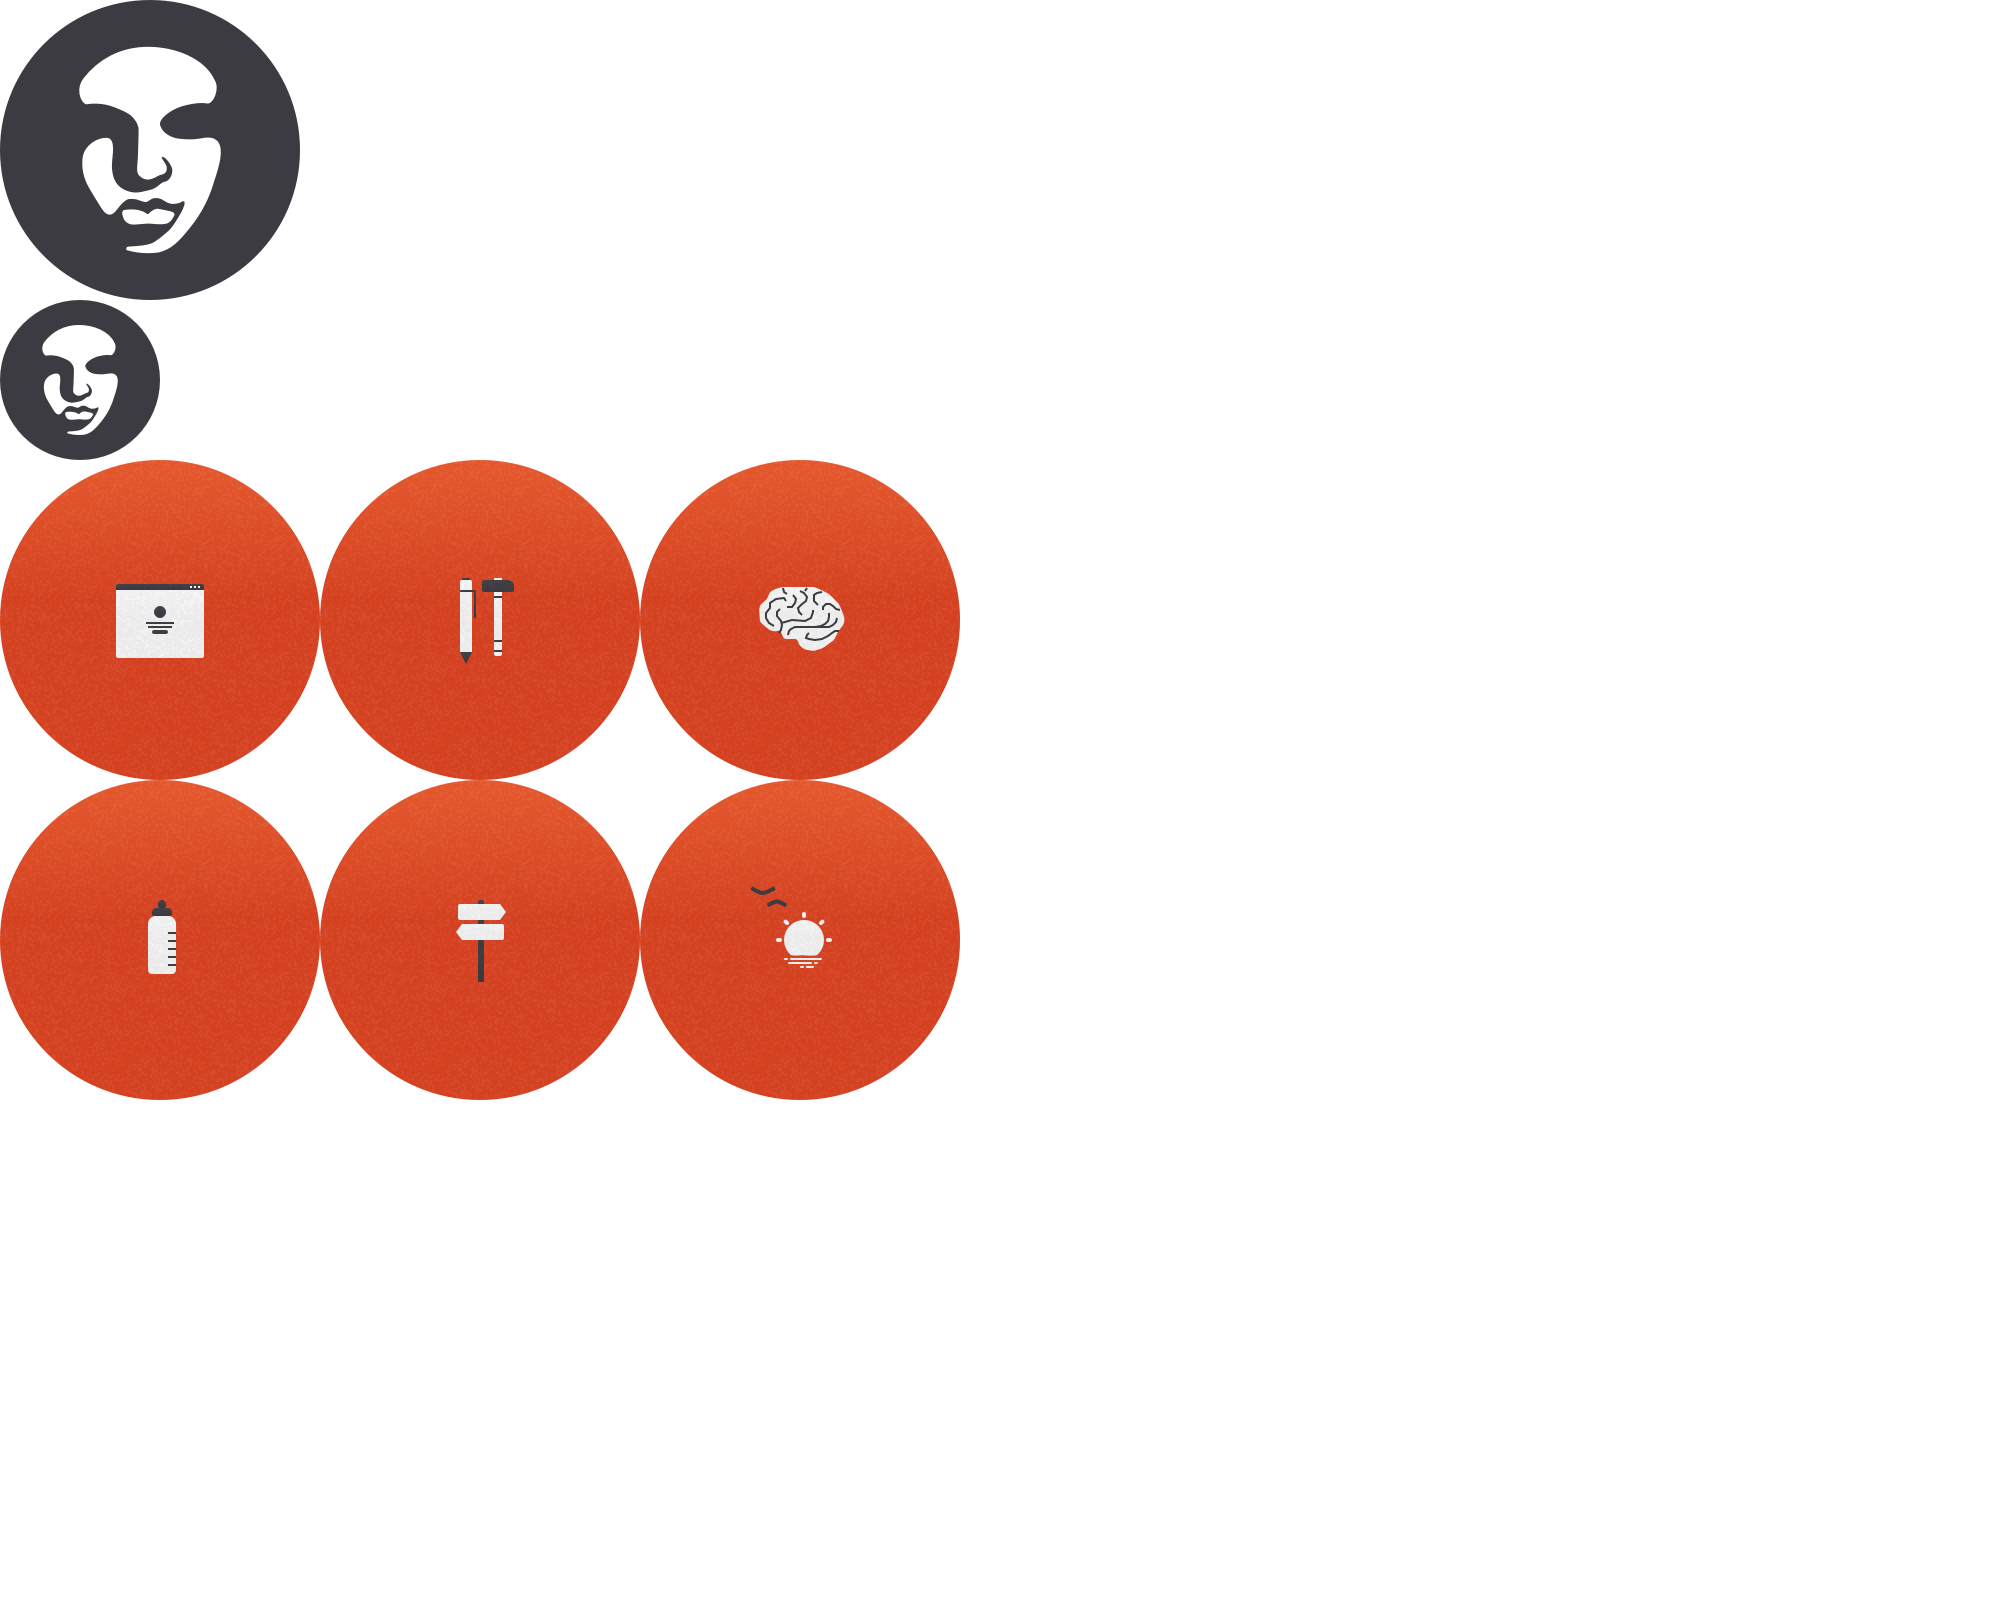
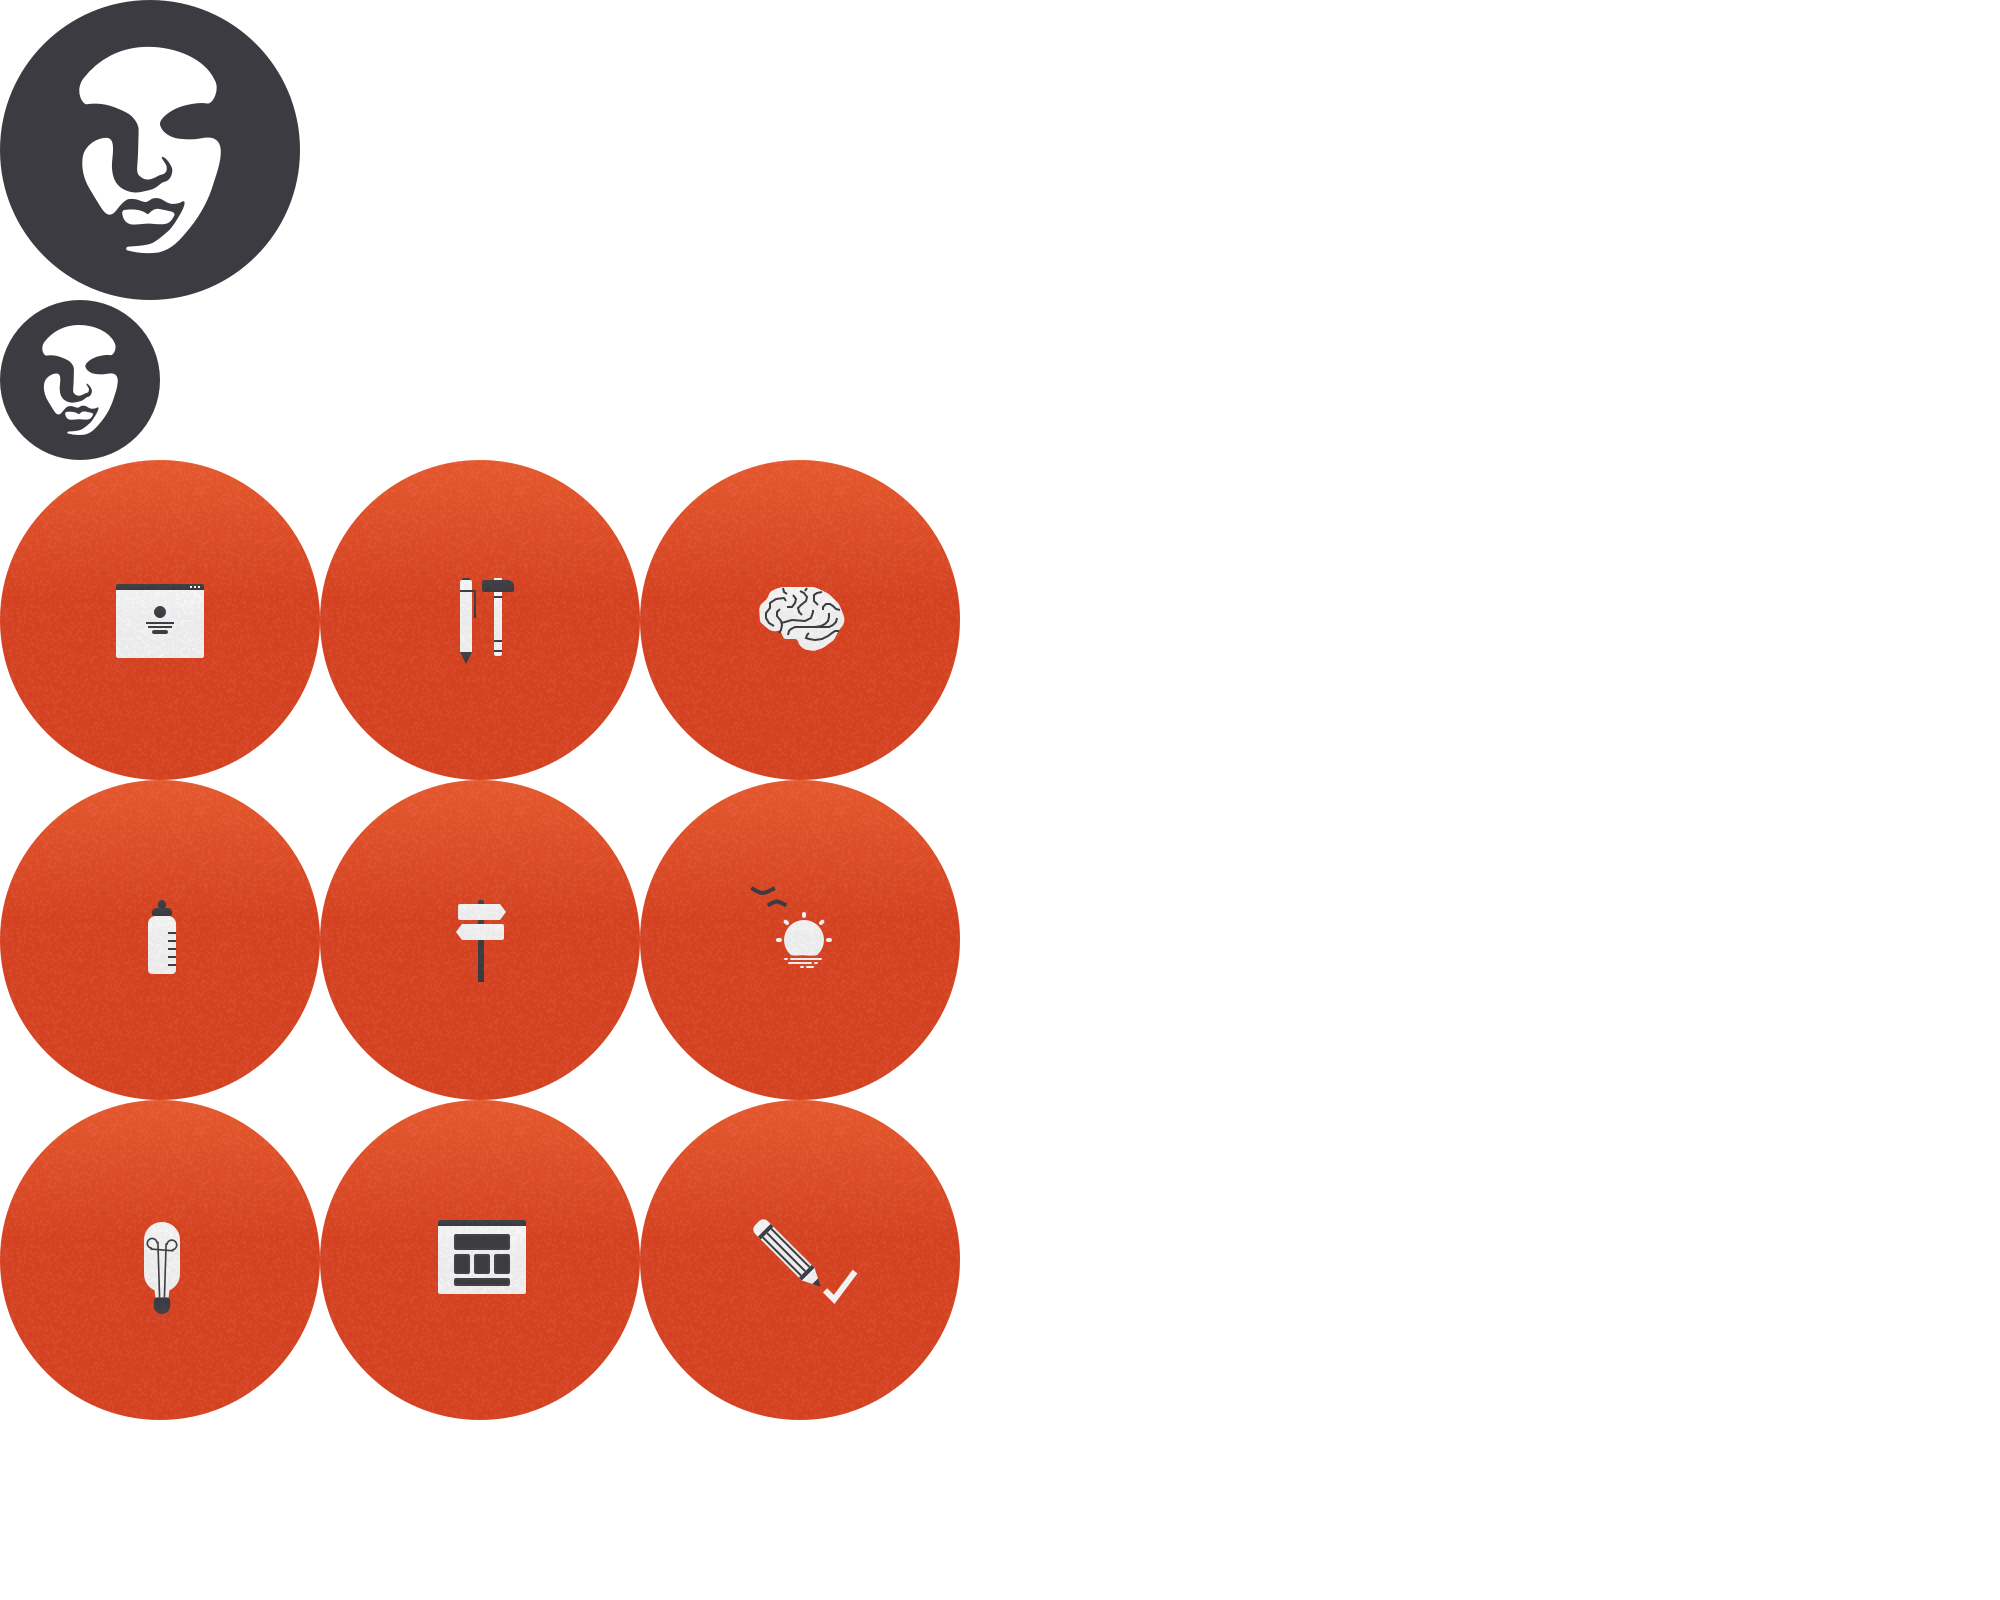
sdsdasd
sdasdsad

Changed region(s): [[0.0, 0.6875, 0.496, 0.9062]]

diff --git a/hire/index.html b/hire/index.html
@@ -59,6 +59,7 @@
         <a class="menu-primary Home trans" href="#Home">beginning</a>
         <a class="menu-primary Home trans" href="#Overview">overview</a>
             <a class="menu-primary Home trans" href="#Skills">skills</a>
+            <a class="menu-primary Home trans" href="#Process">process</a>
              <a class="menu-primary Home trans" href="#Hireme">hire me!</a>
         <span class="drop"></span>
         <a class="menu-secondary" href="http://www.denisstritar.com" target="_blank">Homepage</a>
@@ -118,17 +119,17 @@
     <section id="Overview" class="cv-sect-1">
 
         <h2 class="cv-title">OVERVIEW</h2>
-        <h3 class="cv-heading3">I can enumerate a lot of things that define me, but I will try to keep it brief and simple. I like podcasts, astronomy, books, debates and classical music.</h3>
+        <h3 class="cv-heading3">I can enumerate a lot of things that define my professional side. But I will try to keep it brief and simple. I like design, technology and challenges.</h3>
         <div class="cv-container cv-container-start">
             <div class="col">
                 <div class="icon-over-1"></div>
                 <h5>UI FOCUSED</h5>
-                <p>Human to machine interaction is what I pursue with all the interest.</p>
+                <p>Human to machine interaction is what I pursue with an interest.</p>
             </div>
             <div class="col">
                 <div class="icon-over-2"></div>
                 <h5>All Rounder</h5>
-                <p>Like special forces, I carry a broad array of overlapping skills.</p>
+                <p>I carry a broad array of overlapping skills.</p>
             </div>
             <div class="col">
                 <div class="icon-over-3"></div>
@@ -157,7 +158,7 @@
     </section>
     <section id="Skills" class="cv-sect-2">
         <h2 class="cv-title">SKILLS</h2>
-        <h3 class="cv-heading3">Understanding deepens when you learn things on your own. Passion is a crucial ingredient that turns long weekends and nights in to a love of labour.</h3>
+        <h3 class="cv-heading3">Understanding deepens when you learn things on your own. Passion is crucial, it turns long weekends and late nights of labour in to results that matter.</h3>
         <div class="cv-container cv-container-start">
             <div class="col">
 
@@ -542,7 +543,7 @@
                     </defs>
                     <g id="Page-1" stroke="none" stroke-width="1" fill="none" fill-rule="evenodd" sketch:type="MSPage">
                         <g id="CV" sketch:type="MSArtboardGroup" transform="translate(-737.000000, -3073.000000)">
-                            <g id="TESTING" sketch:type="MSLayerGroup" transform="translate(737.000000, 3073.000000)">
+                            <g id="TESTING2" sketch:type="MSLayerGroup" transform="translate(737.000000, 3073.000000)">
                                 <rect id="BLANK" fill="#D9D9D9" sketch:type="MSShapeGroup" x="0" y="0" width="240" height="10" rx="5"></rect>
                                 <rect id="RED" fill="url(#linearGradient-1)" sketch:type="MSShapeGroup" x="0" y="0" width="220" height="10" rx="5"></rect>
                             </g>
@@ -555,7 +556,31 @@
         </div>
         <svg width="206px" height="7px" viewBox="0 0 206 7" version="1.1" xmlns="http://www.w3.org/2000/svg" xmlns:xlink="http://www.w3.org/1999/xlink" xmlns:sketch="http://www.bohemiancoding.com/sketch/ns">
     </section>
-    <section id="Hireme" class="section-last section-back">
+    <section id="Process" class="cv-sect-1">
+        <h2 class="cv-title">PROCESS</h2>
+        <h3 class="cv-heading3">Planning is essential. I sketch and scribble ideas on post-it notes use multiple tools to do project research, wireframe layouts and design prototypes.</h3>
+        <div class="cv-container cv-container-start">
+            <div class="col">
+                <div class="icon-over-7"></div>
+                <h5>Idea & Research</h5>
+                <p>I have a lot of experience using Basecamp, Asana and other such project management solutions to gather ideas and do research.</p>
+            </div>
+            <div class="col">
+                <div class="icon-over-8"></div>
+                <h5>Wireframes</h5>
+                <p>I use Invision app for prototyping, UXpin for quick wireframes and plain old artboard with vector shapes for everything else.</p>
+            </div>
+            <div class="col">
+                <div class="icon-over-9"></div>
+                <h5>Design</h5>
+                <p>Sketch is the essential software for 80% of my design work. I also use a lot of different web based apps in my design process.</p>
+            </div>
+        </div>
+        <br>
+        <div class="process-watch"></div>
+
+    </section>
+    <section id="Hireme" class="section-last section-back section-end-cv">
         <h2>HIRE ME!</h2>
         <h3 class="cv-heading3">I'm open for work as a freelancer or as a team member dedicated to work on a long-term projects. Get in touch with me so we can discuss in details.</h3>
         <br>
@@ -563,7 +588,7 @@
         <h3><a class="mail-add" href="mailto:denis@denisstritar.com">denis@denisstritar.com</a></h3>
 
     </section>
-    <footer id="Contactme" class="section-back">
+    <footer id="Contactme" class="section-back section-end-cv">
         <div class="social-networks ">
             <ul class="icons">
                 <li>

diff --git a/index.html b/index.html
@@ -94,7 +94,7 @@
          </h1>
         <div class="fade-out"></div>
         <div id="small-logo-trigger" class="intro-holder">
-            <h4 class="hello-text">Welcome to my website, a place to learn more about me and see my recent work.</h4>
+            <h4 class="hello-text">Welcome to a place where you can learn more about me and my work.</h4>
             <div class="intro-buttons">
                 <a href="#Latestwork" class="btn cta NavLatest">Latest Work</a>
                 <a href="http://www.denisstritar.com/hire" target="_blank" class="btn">Hire me!</a>
@@ -111,12 +111,27 @@
     </section>
     <section id="Aboutme" class="section-text section-back">
         <h2>ABOUT ME</h2>
-        <h3>I find it hard to label myself exactly. Being creative, I'm leaning towards UI and industrial design, architecture, illustration and other such crafts.</h3>
-        <p>I have a more than four years of experience in UI design including creative direction, planning and wire-framing, consulting and having responsibility over small teams of developers on many different projects. I have sufficient knowledge of HTML and CSS to build a website from scratch - such as this one. 3D modelling skills add a significant value to my projects, as well helping me to visualise my product and architecture ideas. I write poetry, can play some guitar and love long walks, listening to podcasts or audiobooks. I keep on learning and try to keep my life from the state of stagnation.
+        <h3>I choose not to label myself directly. Being creative, I'm leaning towards UI and industrial design, architecture, illustration and digital projects.</h3>
+        <p>I have more than five years of active experience in web design including creative direction, planning and wire-framing, as well as leading small development teams and consulting other production studios. I have sufficient knowledge of HTML and CSS to create a website from a scratch. I also combine my other skills, such as 3D modelling and animation, to push the creative edge further up the scale. </p>
+        <p>
+            I am a podcast and online lecture addict. My alter-ego writes poetry and short stories. I love long walks especially on the streets of worlds largest cities. Cormac McCarthy and Christopher Hitchens are two of my favourite authors. Nick Cave and Warren Ellis is my favourite music duo. Mozzarella is my favourite dairy product.</p>
+        <p>
+            Here is a list of some of my other favourite things:
+            <ul class="fave-things">
+                <li>Website: <a href="http://www.siteinspire.com" target="_blank">Site Inspire</a> </li>
+                <li>Studio: <a href="http://www.platige.com" target="_blank">Platigue</a> </li>
+                <li>Magazine: <a href="http://yatzer.com" target="_blank">Yatzer</a> </li>
+                <li>Podcast: <a href="http://londonist.com/podcasts" target="_blank">Londonist Out Loud</a> </li>
+                <li>City: <a href="http://www.discoverhongkong.com/eng/index.jsp" target="_blank">Hong Kong</a> </li>
+                <li>Social network: <a href="http://www.quora.com" target="_blank">Quora</a> </li>
+                <li>Weekly digest: <a href="http://www.brainpickings.org" target="_blank">Brain Pickings</a> </li>
 
+            </ul>
 
-
-            <br> "Nil Desperandum" is my motto.</p>
+        </p>
+        <p class="quote">
+            "To improve is to change; to be perfect is to change often."
+            <br><span>- Winston Churchill</span> </p>
         <a href="#Contactme" class="btn cta NavLatest">CONTACT ME</a>
     </section>
     <section id="Latestwork" class="section-back">
@@ -207,9 +222,11 @@
     <section id="Contactme" class="section-last section-back">
         <h2>CONTACT ME</h2>
         <h3>Hire me for work on projects that stretch from web design to 3D modelling. You can also write me just to say hi. I will gladly reply in any case.</h3>
+        <a href="http://www.denisstritar.com/hire" target="_blank" class="btn contact-btn cta">Hire me!</a>
         <br>
         <br>
         <h3><a class="mail-add" href="mailto:denis@denisstritar.com">denis@denisstritar.com</a></h3>
+
 
     </section>
 

diff --git a/css/style.css b/css/style.css
@@ -210,6 +210,33 @@ h3 a:focus {
     color: #e36144;
     text-decoration: none;
 }
+
+ul.fave-things {
+    list-style-type: none;
+    max-width: 750px;
+    margin: 30px auto 0 auto;
+    font-family: 'Campton Light';
+    font-size: 18px;
+    line-height: 31px;
+    color: #3B3B41;
+    text-align: left;
+    padding: 0;
+}
+
+ul.fave-things a {
+    font-family: 'Campton ExtraBold';
+    color: #D44120;
+}
+
+.quote {
+    font-family: 'tisaproitalicbold';
+    font-size: 20px;
+    text-align: left;
+}
+
+.quote span {
+    font-size: 15px;
+}
 /*FONTS-END*/
 /*GLOBALS*/
 
@@ -267,6 +294,10 @@ section {
 
 .section-text a {
     margin: 70px auto 0 auto;
+}
+
+.contact-btn {
+    margin: 30px auto 0 auto;
 }
 
 @media (max-width: 768px) {
@@ -1602,6 +1633,33 @@ a.dl-logo span:hover {
     background-size: 1000px 800px;
 }
 
+.icon-over-7 {
+    display: block;
+    width: 160px;
+    height: 160px;
+    margin: 0 auto;
+    background: url(../img/cv_spirte.png) 0px -550px;
+    background-size: 1000px 800px;
+}
+
+.icon-over-8 {
+    display: block;
+    width: 160px;
+    height: 160px;
+    margin: 0 auto;
+    background: url(../img/cv_spirte.png) -160px -550px;
+    background-size: 1000px 800px;
+}
+
+.icon-over-9 {
+    display: block;
+    width: 160px;
+    height: 160px;
+    margin: 0 auto;
+    background: url(../img/cv_spirte.png) -320px -550px;
+    background-size: 1000px 800px;
+}
+
 .col h5 {
     padding-top: 25px;
     font-family: 'Campton ExtraBold';
@@ -1673,4 +1731,28 @@ a.dl-logo span:hover {
     display: block;
     width: 286px;
     margin: 40px auto 22px auto;
+}
+
+.process-watch {
+    margin: 80px auto 40px auto;
+    display: block;
+    width: 600px;
+    height: 208px;
+    background: url(../img/Process.png);
+    background-size: 600px 208px;
+}
+
+@media (max-width: 600px) {
+    .process-watch {
+        margin: 20px auto;
+        display: block;
+        width: 218px;
+        height: 618px;
+        background: url(../img/Process_mob.png);
+        background-size: 218px 618px;
+    }
+}
+
+.section-end-cv {
+    background: #F8F8F8 !important;
 }
